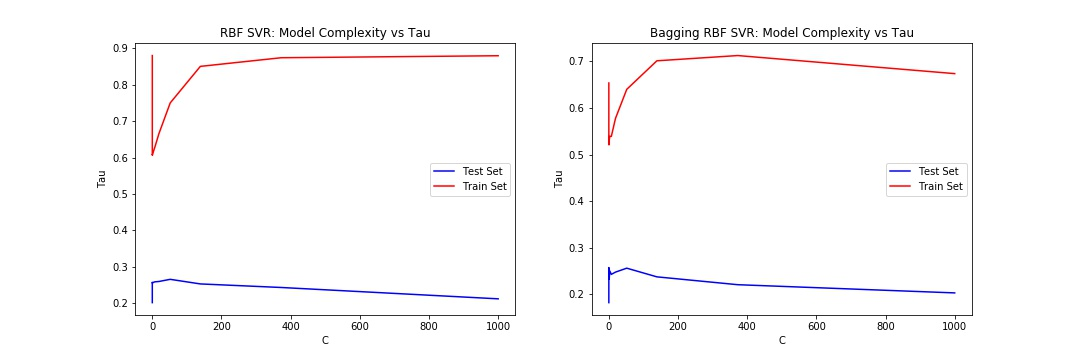
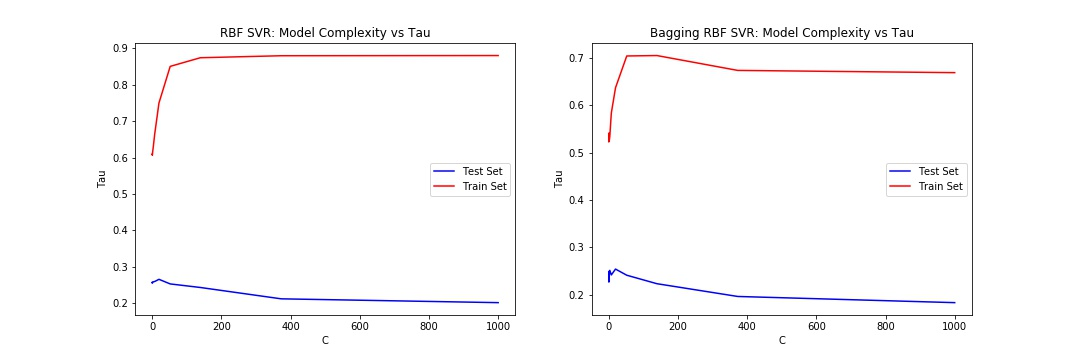
updated readme and finalized some notebooks

diff --git a/README.md b/README.md
@@ -1,16 +1,15 @@
 # Final Project for APAM 4903 Senior Applied Math Seminar
 
-Current idea:
+This project is a collaboration between myself and [abram6](https://github.com/abram6) for our project for [APAM4903](http://www.columbia.edu/cu/bulletin/uwb/#/cu/bulletin/uwb/subj/APMA/E4903-20193-001/), which is essentially a capstone project for completing the Applied Math major at Columbia University.
 
-1. Build a dataset: corpus of work from different (NYtimes?) reporters
-    - Word to vec
-    - Data analysis of style, language features, etc.
-2. Identify engagement metrics
-    - Article retweets (sum them over reporters?)
-    - Journalist followers
-3. Analyze models and link 1 and 2 (identify drivers of 2 from 1)
+The project is, in a nutshell, an attempt to find correlations between style of NYT articles and reader engagement with those articles. By style, we mean linguistic features which are independent of the content of the articles (such as grammatical choices, sentence length, etc.). This is in contrast to other kinds of language processing projects (for instance projects in NLP) which tend to focus on the content of language. To measure engagement, we used retweets of article links on Twitter. 
 
-Questions
-- How much data do we need? How many reporters?
-- Does a database like this already exist (almost certainly - get wiggins to introduce us to Mike Hansen)
+We found that there is a weak but present signal in the data which indicate that style-based features have a nontrivial impact on reader engagement. In terms of metrics, our best model, which was SVR (support vector regression) with RBF kernel, had a Kendall tau of about 0.26 and a mean absolute error which was better than just guessing the average number of retweets for every article. Given that we expect content to be the most important predictor for reader engagement (people tend to be more engaged with articles that are about the things they are interested in), as well as the fact that NYT writers have to follow a style guideline that to some degree makes articles rather uniform in style, it's actually kind of incredible that we found any sort of signal at all in the data. 
 
+Of course, there are some caveats here. In terms of feature selection, there are a million different avenues we didn't go down. Just to name a few, we didn't quantify order of parts of speech or n-grams, and we also could have looked at more features specific to journalistic writing- for example, metrics related to quotes in articles. While retweets are an accessible and convenient proxy for reader engagement, it would be nice to have something more tangible for the engagement metric such as average scroll depth or average time on the article site. Finally, in terms of model specific improvements, figuring out feature importance for the implicitly transformed data (rbf-kernel transformed data) would be a logical next step for analysis. 
+
+The most relevant notebooks from the presentation ("Final_Presentation.pdf") are here: 
+
+[Scraping NYT article text given Twitter URLs](https://github.com/ruthlee/NYT_Analysis/blob/master/notebooks/article_scraping.ipynb)
+[Cleaning tokenized data and extracting features](https://github.com/ruthlee/NYT_Analysis/blob/master/notebooks/methods_features.ipynb)
+[Optimizing SVR with RBF Kernel and obtaining fit vs complexity plots](https://github.com/ruthlee/NYT_Analysis/blob/master/notebooks/rbf_kernel.ipynb)
